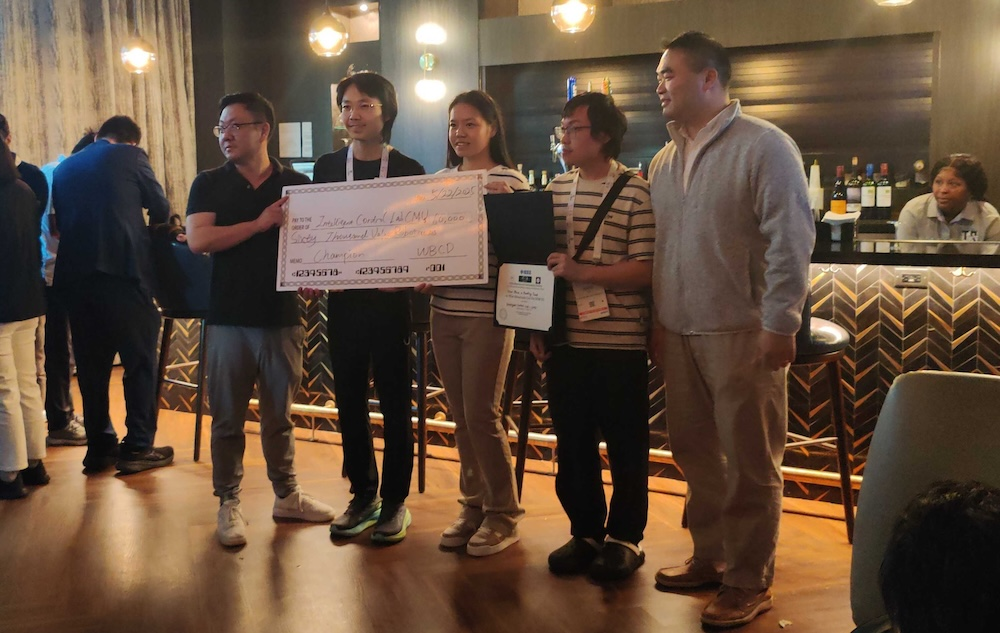
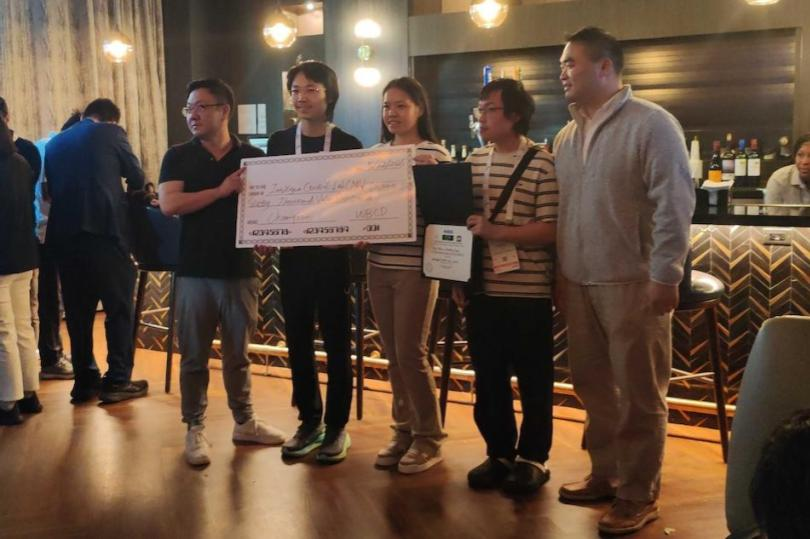
update

diff --git a/_posts/2025-10-20-LegoGPT.md b/_posts/2025-10-20-LegoGPT.md
@@ -15,7 +15,7 @@ arxiv: https://www.arxiv.org/abs/2505.05469
 venue: "International Conference on Computer Vision (ICCV)"
 award: "Best Paper Award (Marr Prize)"
 highlight: true
-highlightimage: /images/iccv25.png
+highlightimage: /images/iccv25.jpg
 highlightbrief: "BrickGPT won the <strong>Best Paper Award (Marr Prize)</strong> at ICCV 2025!"
 ---
 <strong>BrickGPT</strong> generates physically stable and buildable assembly structures using LEGO bricks from user-provided text prompts in an end-to-end manner.
